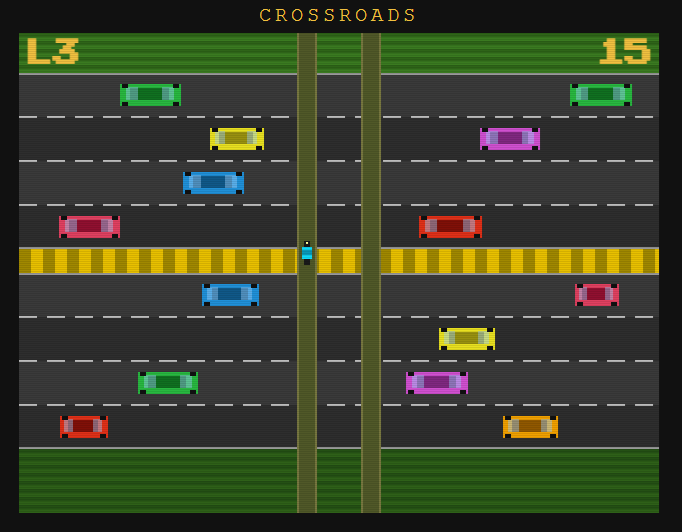
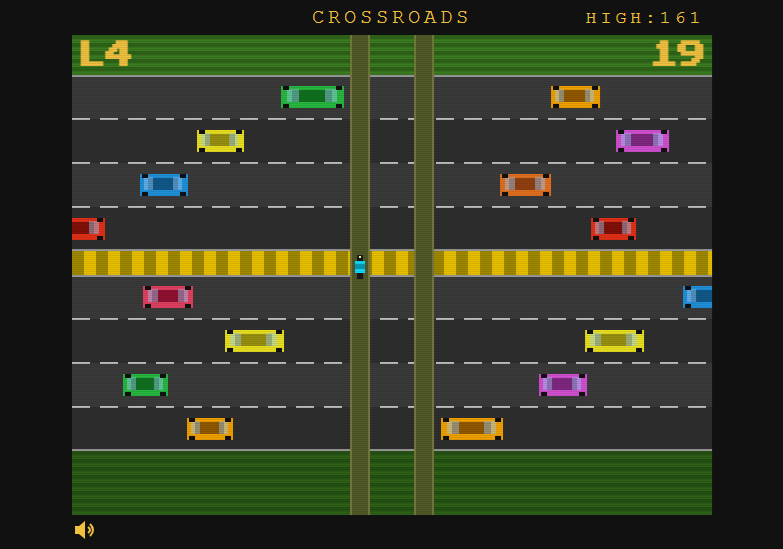
Updated Crossroads

diff --git a/projects/crossroads/index.html b/projects/crossroads/index.html
@@ -46,8 +46,15 @@
   align-items: center;
   gap: 20px;
 }
+
 .touch-btns {
   display: none;
+  -webkit-touch-callout: none;
+  touch-action: none;
+}
+
+.touch-btn svg {
+  pointer-events: none;
 }
 
 @media (pointer: coarse) {
@@ -127,17 +134,24 @@
 </div>
 <div id="game-row">
   <div class="touch-btns">
-    <div class="touch-btn dimmed" id="btn-up-l">▲</div>
-    <div class="touch-btn dimmed" id="btn-dn-l">▼</div>
+    <div class="touch-btn dimmed" id="btn-up-l"><svg viewBox="0 0 10 10" width="20" height="20"><polygon points="5,1 9,9 1,9" fill="#f0c040"/></svg></div>
+    <div class="touch-btn dimmed" id="btn-dn-l"><svg viewBox="0 0 10 10" width="20" height="20"><polygon points="5,9 9,1 1,1" fill="#f0c040"/></svg></div> 
   </div>
   <canvas id="c" width="640" height="480"></canvas>
   <div class="touch-btns">
-    <div class="touch-btn dimmed" id="btn-up-r">▲</div>
-    <div class="touch-btn dimmed" id="btn-dn-r">▼</div>
+    <div class="touch-btn dimmed" id="btn-up-r"><svg viewBox="0 0 10 10" width="20" height="20"><polygon points="5,1 9,9 1,9" fill="#f0c040"/></svg></div>
+    <div class="touch-btn dimmed" id="btn-dn-r"><svg viewBox="0 0 10 10" width="20" height="20"><polygon points="5,9 9,1 1,1" fill="#f0c040"/></svg></div>
   </div>
 </div>
 <div id="statusRow">
-  <span id="muteBtn" title="Mute" style="cursor:pointer; font-size:24px; user-select:none;">🔊</span>
+  <span id="muteBtn" title="Mute" style="cursor:pointer; user-select:none; -webkit-touch-callout:none; display:inline-flex; align-items:center;">
+    <svg id="muteIcon" viewBox="0 0 28 24" width="28" height="24">
+      <polygon points="3,8 3,16 7,16 13,21 13,3 7,8" fill="#f0c040"/>
+      <path id="muteWave" d="M16,9 Q20,12 16,15" stroke="#f0c040" stroke-width="2" fill="none"/>
+      <path id="muteWave2" d="M18,6 Q24,12 18,18" stroke="#f0c040" stroke-width="2" fill="none"/>
+      <line id="muteLine1" x1="4" y1="4" x2="20" y2="20" stroke="red" stroke-width="2.5" visibility="hidden"/>
+    </svg>
+  </span>
   <div id="footer">&nbsp;</div>
   <span style="width:30px;"></span>
 </div>
@@ -751,6 +765,7 @@ function setupTouchButtons() {
   function holdKey(key, el) {
     el.addEventListener('touchstart', e=>{
       e.preventDefault();
+      e.stopPropagation();
       initAudio();
       keys[key]=true;
     }, {passive:false});
@@ -770,7 +785,9 @@ setupTouchButtons();
 
 document.getElementById('muteBtn').addEventListener('click', () => {
   isMuted = !isMuted;
-  document.getElementById('muteBtn').textContent = isMuted ? '🔇' : '🔊';
+  document.getElementById('muteWave').style.visibility  = isMuted ? 'hidden' : 'visible';
+  document.getElementById('muteWave2').style.visibility = isMuted ? 'hidden' : 'visible';
+  document.getElementById('muteLine1').style.visibility = isMuted ? 'visible' : 'hidden';
 });
 
 document.getElementById('footer').addEventListener('click', () => {

diff --git a/projects/crossroads/README.html b/projects/crossroads/README.html
@@ -48,13 +48,18 @@ body{
 <li><p>Nine levels are supported.</p>
 </li>
 </ul>
-<h2 id="from-release-2-build-02-05-in-6-5-26-">From Release #2 (Build 02.05 in 6/5/26)</h2>
+<h2 id="from-release-2-build-02-05-on-6-5-26-">From Release #2 (Build 02.05 on 6/5/26)</h2>
 <ul>
 <li><p>Add a high score tracker.</p>
 </li>
 <li><p>Add support for tablet.</p>
 </li>
 <li><p>Add a Mute button to turn sound on and off.</p>
+</li>
+</ul>
+<h2 id="from-release-3-build-03-02-on-11-6-26-">From Release #3 (Build 03.02 on 11/6/26)</h2>
+<ul>
+<li><p>Fix some control quirks running on an iPad.</p>
 </li>
 </ul>
 
